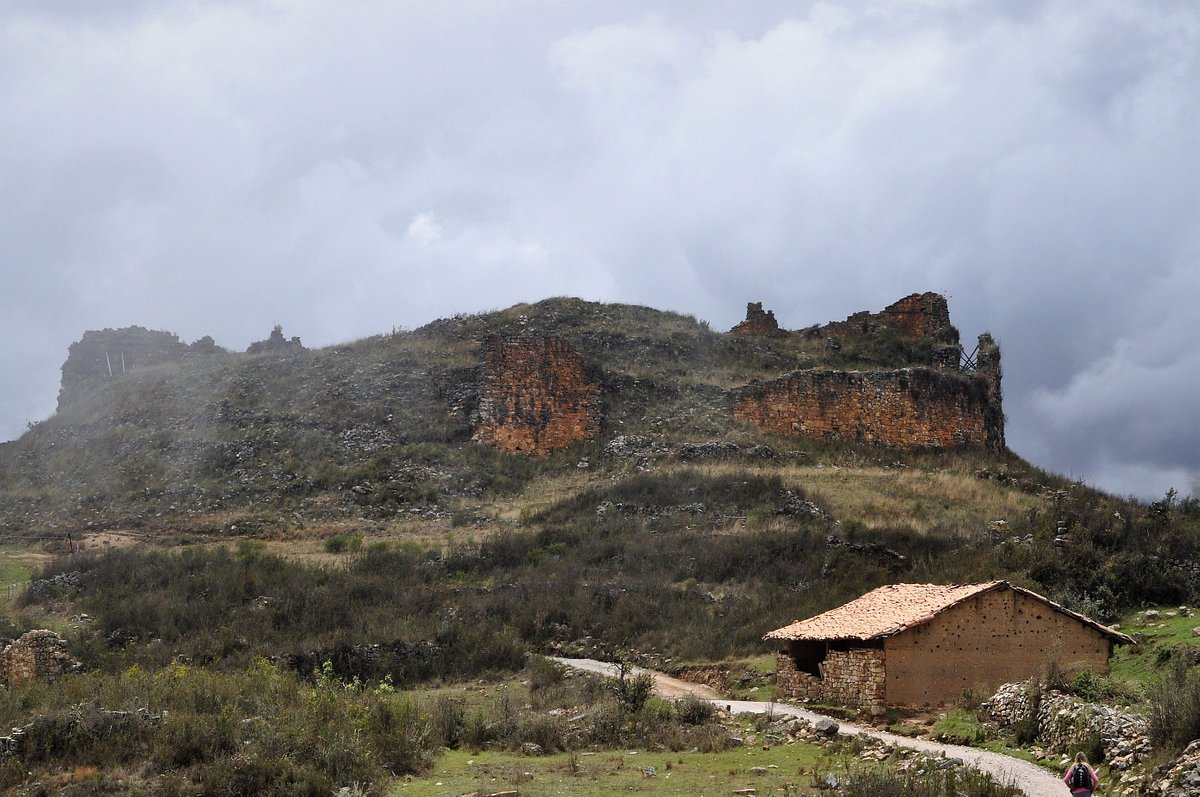
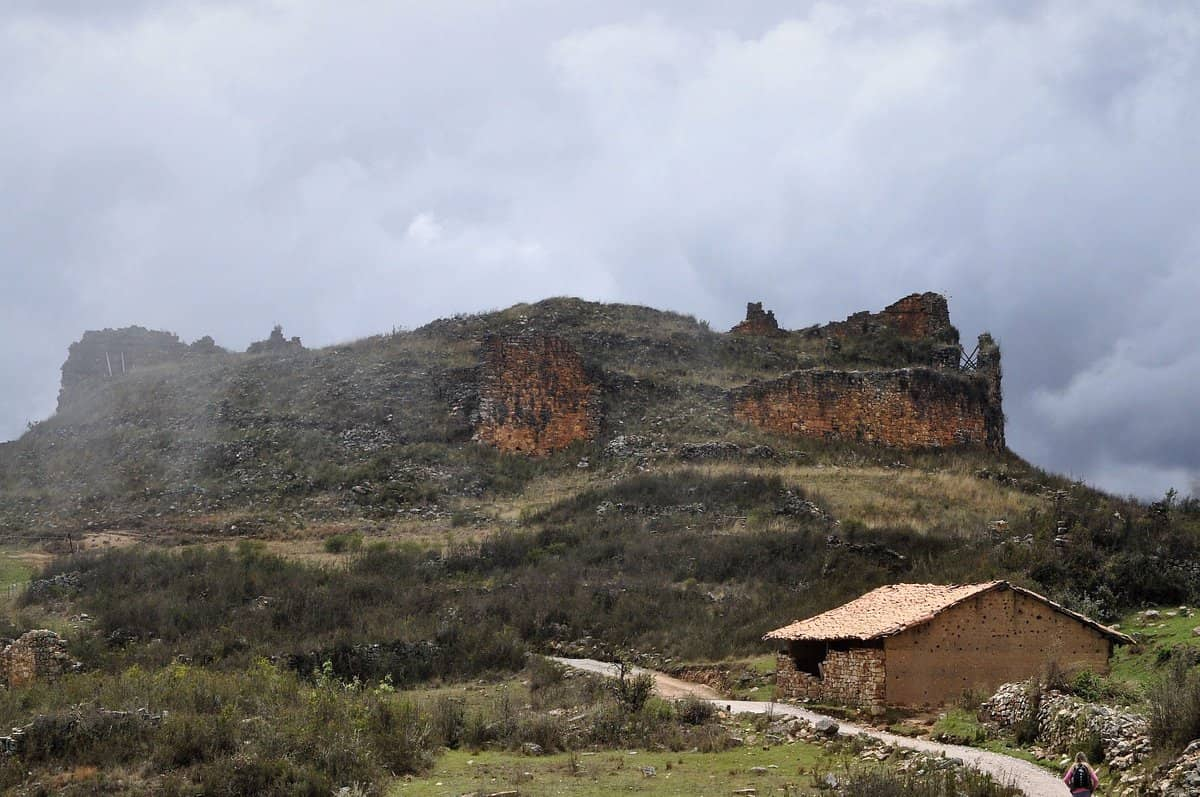
Optimize imagenes

diff --git a/src/components/Footer.jsx b/src/components/Footer.jsx
@@ -14,7 +14,7 @@ const Footer = () => {
         <div className='flex justify-center'>
           <Link to='/' onClick={scroolTop}>
             <img
-              src="/public/images/logo/blanco.png"
+              src="/images/logo/blanco.png"
               alt="Logo"
               className='w-36'
             />
